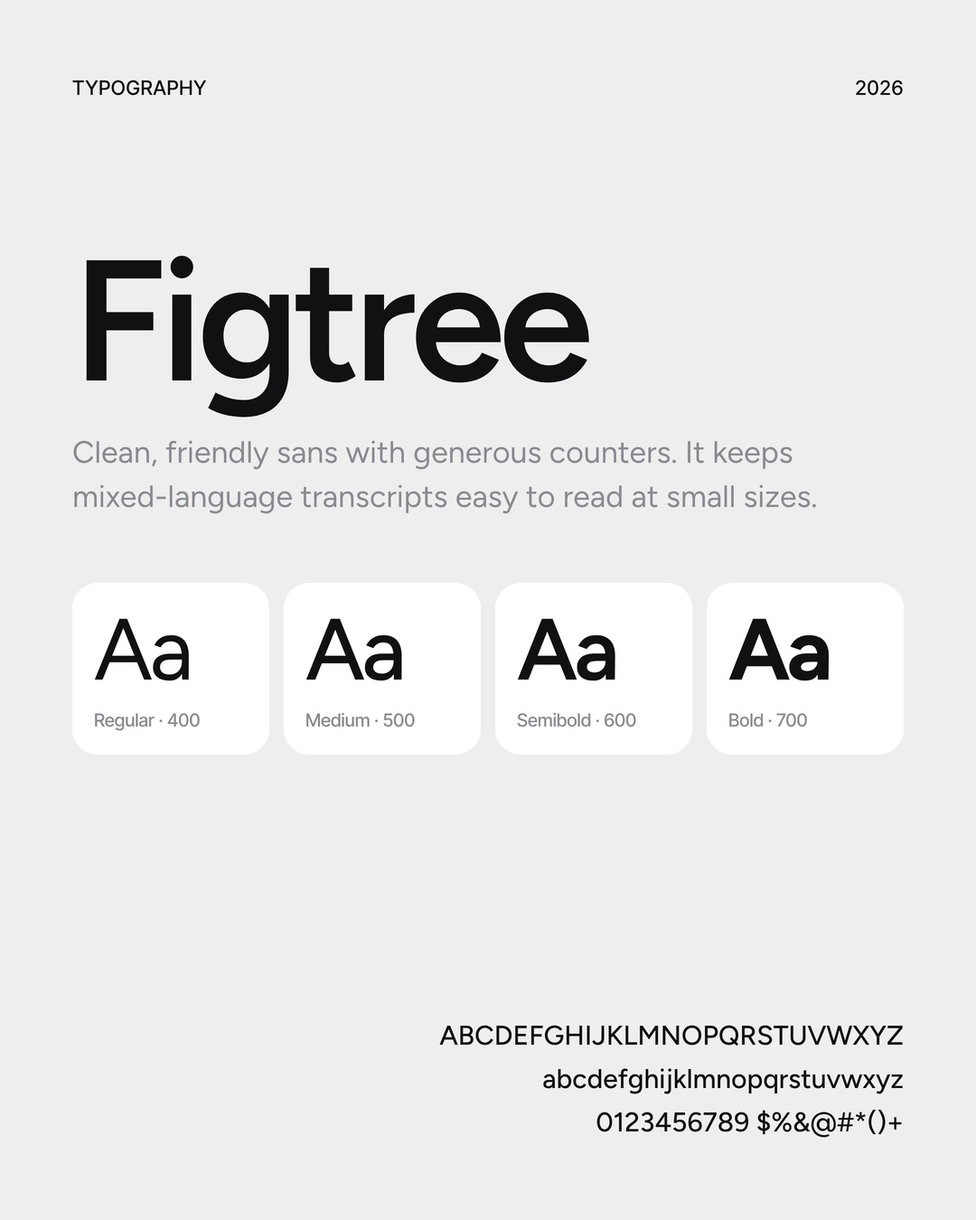
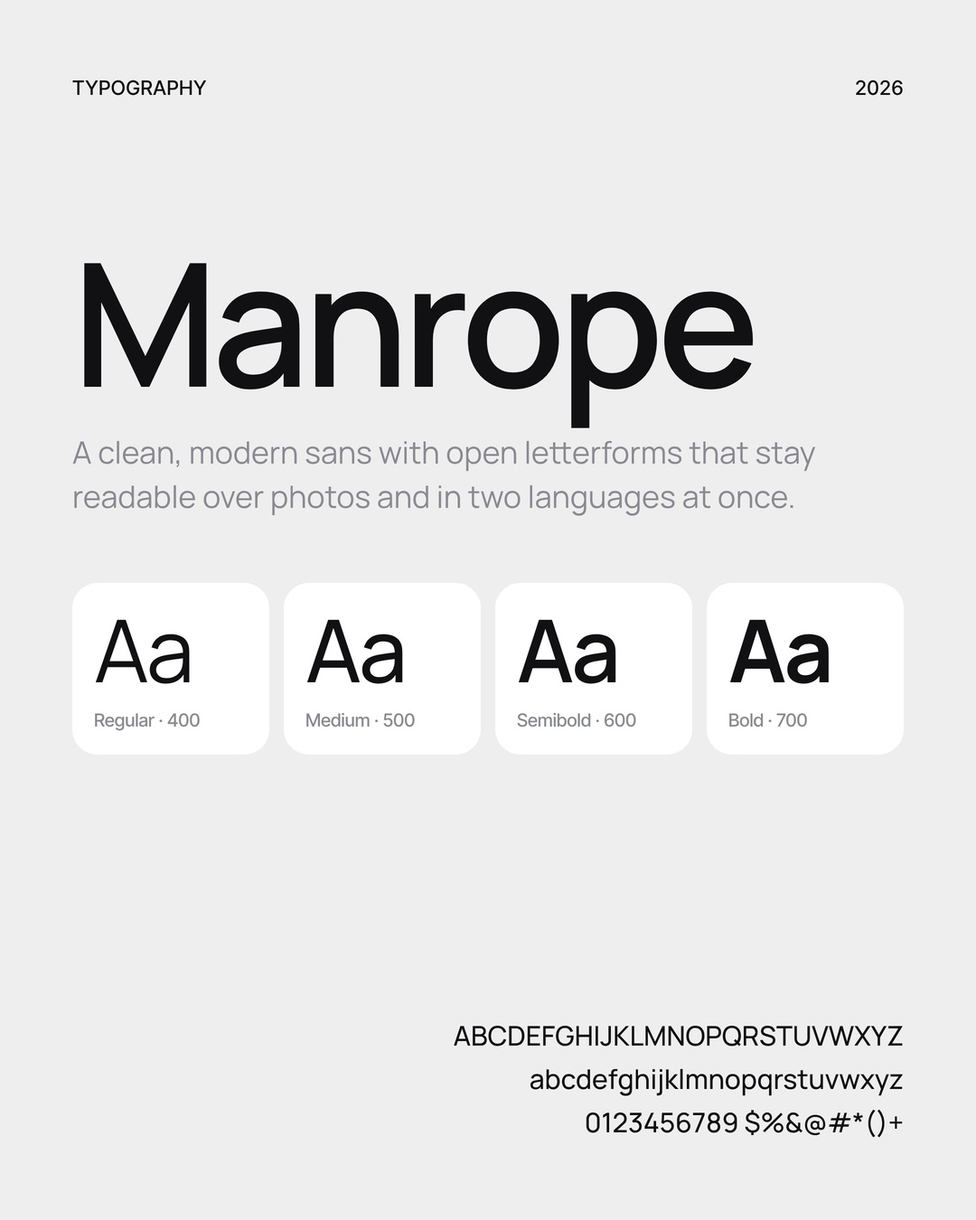
Redesign Lumen, Stride and Pantry AI app posts in glass + real-photo style (pending owner approval)
Claude-Session: https://claude.ai/code/session_01Rx7czwURhfBQTkGaHoh7L3

diff --git a/designs/2026-11-16-pm-stride-running-app/screen.html b/designs/2026-11-16-pm-stride-running-app/screen.html
@@ -1,90 +1,81 @@
 <!doctype html>
 <html><head><meta charset="utf-8">
 <meta name="app-name" content="Running Tracker">
-<meta name="app-desc" content="A running tracker built for the moment you finish. It shows **your route, pace and heart rate in one glance**, compares every split to last week, and **keeps the weekly goal one tap away**.">
+<meta name="app-desc" content="A running tracker built for the moment you finish. It shows **your run as a moment, not a spreadsheet**: distance over the real view, pace and heart rate on glass, and **every split compared to last week**.">
 <meta name="fonts" content="Space Grotesk|Technical grotesk with distinctive numerals. Pace, distance and time read like a sports scoreboard.">
 <meta name="palette" content="#D7FF3A:Volt|#111111:Asphalt|#F4F4EF:Chalk|#FFFFFF:White|#FF5C39:Heart|#6B6B66:Gravel">
 <link rel="stylesheet" href="../../assets/fonts.css">
 <style>
 *{box-sizing:border-box;margin:0;padding:0}
 html,body{width:393px;height:852px;overflow:hidden;background:#F4F4EF;font-family:'Space Grotesk';color:#111;-webkit-font-smoothing:antialiased;font-feature-settings:"tnum" 1}
-.screen{position:relative;width:393px;height:852px;padding:0 18px;background:#F4F4EF}
-.status{height:54px;display:flex;align-items:center;justify-content:space-between;padding:6px 14px 0 16px;font-weight:600;font-size:16px}
+.screen{position:relative;width:393px;height:852px;background:#F4F4EF;overflow:hidden}
+.hero{position:absolute;left:0;top:0;width:393px;height:500px;border-radius:0 0 36px 36px;overflow:hidden;background:url(photo.jpg) no-repeat;background-size:440px auto;background-position:-24px -40px}
+.hero:after{content:"";position:absolute;inset:0;background:linear-gradient(180deg,rgba(17,17,17,.45) 0%,rgba(17,17,17,.15) 40%,rgba(17,17,17,0) 50%,rgba(17,17,17,.7) 100%)}
+.z{position:relative;z-index:2}
+.g{background:rgba(255,255,255,.16);backdrop-filter:blur(20px) saturate(170%);-webkit-backdrop-filter:blur(20px) saturate(170%);border:1px solid rgba(255,255,255,.3)}
+.status{height:54px;display:flex;align-items:center;justify-content:space-between;padding:6px 26px 0 32px;font-weight:600;font-size:16px;color:#fff}
 .status .r{display:flex;gap:6px;align-items:center}
-.top{display:flex;align-items:center;justify-content:space-between;margin-top:4px}
-.top small{font-size:13px;color:#6B6B66;font-weight:500}
-.top h1{font-size:26px;font-weight:700;letter-spacing:-1px;margin-top:1px}
-.ib{width:42px;height:42px;border-radius:50%;background:#fff;display:grid;place-items:center}
-.map{margin-top:14px;height:226px;border-radius:28px;background:#E9EAE2;position:relative;overflow:hidden}
-.map svg.bg{position:absolute;inset:0}
-.pill{position:absolute;left:12px;top:12px;background:#111;color:#D7FF3A;font-size:12px;font-weight:600;padding:6px 10px;border-radius:999px;display:flex;align-items:center;gap:5px}
-.km{position:absolute;left:14px;bottom:12px;background:#fff;border-radius:20px;padding:10px 14px}
-.km b{font-size:38px;font-weight:700;letter-spacing:-2px;line-height:1}.km b span{font-size:16px;letter-spacing:0;color:#6B6B66;margin-left:3px}
-.stats{display:grid;grid-template-columns:1fr 1fr 1fr;gap:8px;margin-top:10px}
-.st{background:#fff;border-radius:20px;padding:12px}
-.st small{display:flex;align-items:center;gap:5px;font-size:11.5px;color:#6B6B66;font-weight:500}
-.st b{display:block;font-size:21px;font-weight:700;letter-spacing:-.8px;margin-top:6px}
-.st b span{font-size:12px;color:#6B6B66;letter-spacing:0;font-weight:500}
-.st.dk{background:#111;color:#fff}.st.dk small{color:#9A9A94}
-.sec{margin-top:10px;background:#fff;border-radius:24px;padding:14px 16px}
-.sh{display:flex;justify-content:space-between;align-items:baseline}
-.sh h3{font-size:15px;font-weight:700;letter-spacing:-.3px}.sh span{font-size:12.5px;color:#6B6B66}
-.splits{display:flex;align-items:flex-end;gap:7px;height:76px;margin-top:12px}
-.splits div{flex:1;display:flex;flex-direction:column;align-items:center;gap:5px;font-size:10.5px;color:#6B6B66;font-weight:500}
-.splits i{width:100%;border-radius:8px;background:#E7E8E0}
-.splits .best i{background:#D7FF3A;box-shadow:inset 0 0 0 1.5px #111}
-.goal{display:flex;align-items:center;gap:12px;margin-top:10px;background:#111;color:#fff;border-radius:24px;padding:14px 16px}
-.goal b{font-size:15px;font-weight:700}.goal small{display:block;font-size:12px;color:#9A9A94;margin-top:2px}
-.gbar{flex:1;height:8px;border-radius:4px;background:#2A2A2A;overflow:hidden;margin-top:8px}
-.tab{position:absolute;left:50%;transform:translateX(-50%);bottom:28px;display:flex;gap:6px;padding:7px;border-radius:999px;background:#111;box-shadow:0 18px 30px -12px rgba(0,0,0,.45)}
+.top{display:flex;justify-content:space-between;align-items:center;padding:8px 18px 0;color:#fff}
+.pill{display:flex;align-items:center;gap:8px;height:42px;padding:0 15px 0 6px;border-radius:999px;font-size:13.5px;font-weight:600}
+.pill i{width:30px;height:30px;border-radius:50%;background:#D7FF3A;display:grid;place-items:center}
+.ib{width:42px;height:42px;border-radius:50%;display:grid;place-items:center}
+.big{position:absolute;left:22px;right:22px;top:118px;z-index:2;color:#fff}
+.big small{font-size:13px;font-weight:600;opacity:.85;letter-spacing:.3px}
+.big h1{font-size:76px;font-weight:700;letter-spacing:-4px;line-height:.95;margin-top:4px}
+.big h1 span{font-size:28px;letter-spacing:-.5px;color:#D7FF3A;margin-left:6px}
+.big .pr{display:inline-flex;margin-top:12px;align-items:center;gap:6px;font-size:13px;font-weight:700;color:#111;background:#D7FF3A;padding:7px 11px;border-radius:999px}
+.stats{position:absolute;left:14px;right:14px;top:452px;z-index:3;display:flex;border-radius:26px;padding:16px 6px;background:rgba(255,255,255,.78);backdrop-filter:blur(24px) saturate(170%);-webkit-backdrop-filter:blur(24px) saturate(170%);border:1px solid #fff;box-shadow:0 18px 40px rgba(17,17,17,.12)}
+.st{flex:1;text-align:center;border-right:1px solid rgba(17,17,17,.08)}.st:last-child{border:0}
+.st small{display:flex;align-items:center;justify-content:center;gap:5px;font-size:12px;color:#6B6B66;font-weight:500}
+.st b{display:block;font-size:22px;font-weight:700;letter-spacing:-.6px;margin-top:4px}
+.st b em{font-style:normal;font-size:12px;color:#6B6B66;font-weight:500;margin-left:2px;letter-spacing:0}
+.card{position:absolute;left:14px;right:14px;top:560px;background:#fff;border-radius:26px;padding:16px 16px 12px}
+.card .h{display:flex;justify-content:space-between;align-items:baseline}
+.card h3{font-size:16px;font-weight:700;letter-spacing:-.3px}
+.card .lg{display:flex;gap:12px;font-size:11.5px;color:#6B6B66;font-weight:500}
+.card .lg span{display:flex;align-items:center;gap:5px}.card .lg i{width:8px;height:8px;border-radius:2px}
+.tab{position:absolute;left:50%;transform:translateX(-50%);bottom:26px;height:66px;width:300px;border-radius:999px;background:#111;display:flex;align-items:center;justify-content:space-between;padding:0 8px;box-shadow:0 16px 36px rgba(17,17,17,.25)}
 .tab div{width:50px;height:50px;border-radius:50%;display:grid;place-items:center}
-.tab .go{width:auto;white-space:nowrap;padding:0 20px;border-radius:999px;background:#D7FF3A;display:flex;gap:7px;font-size:15px;font-weight:700;color:#111}
-.fade{position:absolute;left:0;right:0;bottom:0;height:120px;background:linear-gradient(to bottom,rgba(244,244,239,0),#F4F4EF 60%)}
+.tab .on{width:auto;padding:0 18px;border-radius:999px;background:#D7FF3A;display:flex;gap:7px;font-size:14px;font-weight:700;color:#111}
 .home{position:absolute;bottom:8px;left:50%;transform:translateX(-50%);width:134px;height:5px;border-radius:3px;background:#111}
-</style></head>
-<body><div class="screen">
-<div class="status"><span>9:41</span><span class="r">
-<svg width="18" height="12" viewBox="0 0 18 12"><rect x="0" y="8" width="3" height="4" rx="1" fill="#111"/><rect x="5" y="5.5" width="3" height="6.5" rx="1" fill="#111"/><rect x="10" y="3" width="3" height="9" rx="1" fill="#111"/><rect x="15" y="0" width="3" height="12" rx="1" fill="#111"/></svg>
-<svg width="16" height="12" viewBox="0 0 16 12"><path d="M8 3.2c2.4 0 4.6.9 6.2 2.5l1.2-1.2C13.4 2.5 10.8 1.4 8 1.4S2.6 2.5.6 4.5l1.2 1.2C3.4 4.1 5.6 3.2 8 3.2zm0 3.6c1.4 0 2.7.5 3.7 1.4l1.2-1.2C11.6 5.7 9.9 5 8 5s-3.6.7-4.9 2l1.2 1.2c1-.9 2.3-1.4 3.7-1.4zM8 10.3l2-2c-.5-.5-1.2-.8-2-.8s-1.5.3-2 .8l2 2z" fill="#111"/></svg>
-<svg width="27" height="13" viewBox="0 0 27 13"><rect x=".5" y=".5" width="22" height="12" rx="3.8" fill="none" stroke="#111" opacity=".35"/><rect x="2" y="2" width="19" height="9" rx="2.5" fill="#111"/></svg></span></div>
-
-<div class="top"><div><small>Sun, 16 Nov · 6:42 AM</small><h1>Riverside loop</h1></div><div class="ib">{{icon:share:19:#111}}</div></div>
-
-<div class="map">
- <svg class="bg" width="357" height="226" viewBox="0 0 357 226">
-  <path d="M-10 160 C60 140 90 190 160 170 S280 120 370 150" stroke="#C9DCE6" stroke-width="26" fill="none"/>
-  <g stroke="#fff" stroke-width="7" fill="none" stroke-linecap="round"><path d="M0 70 L357 40"/><path d="M60 0 L90 226"/><path d="M200 0 L230 226"/><path d="M290 0 L300 226"/><path d="M0 120 L357 100"/></g>
-  <rect x="110" y="60" width="70" height="36" rx="6" fill="#DDE6D2"/><rect x="240" y="64" width="44" height="30" rx="6" fill="#DDE6D2"/>
-  <path d="M70 196 C70 150 96 128 120 118 S190 108 214 82 S268 52 300 70 S320 140 270 150 S170 156 130 176 S80 210 70 196 Z" fill="none" stroke="#111" stroke-width="5" stroke-linejoin="round"/>
-  <path d="M70 196 C70 150 96 128 120 118 S190 108 214 82" fill="none" stroke="#D7FF3A" stroke-width="3" stroke-linecap="round"/>
-  <circle cx="70" cy="196" r="8" fill="#D7FF3A" stroke="#111" stroke-width="3"/>
-  <circle cx="300" cy="70" r="6" fill="#FF5C39" stroke="#fff" stroke-width="2.5"/>
- </svg>
- <div class="pill">{{icon:trophy:13:#D7FF3A:2.4}}New 5K best</div>
- <div class="km"><b>8.42<span>km</span></b></div>
+</style></head><body><div class="screen">
+<div class="hero"></div>
+<div class="z">
+<div class="status"><span>9:41</span><span class="r">{{icon:signal:17:#fff:2.4}}{{icon:wifi:17:#fff:2.4}}{{icon:battery-full:24:#fff:1.8}}</span></div>
+<div class="top"><div class="pill g"><i>{{icon:sunrise:16:#111:2.2}}</i>Morning run · Sat 14 Nov</div><div class="ib g">{{icon:share:18:#fff:2.2}}</div></div>
 </div>
-
+<div class="big"><small>Coastal loop · 6:42 AM</small><h1>8.42<span>km</span></h1>
+<div class="pr">{{icon:trophy:14:#111:2.4}}Best 8K pace</div></div>
 <div class="stats">
- <div class="st dk"><small>{{icon:timer:13:#9A9A94:2.2}}Time</small><b>42:18</b></div>
- <div class="st"><small>{{icon:gauge:13:#6B6B66:2.2}}Avg pace</small><b>5'01<span>/km</span></b></div>
- <div class="st"><small>{{icon:heart:13:#FF5C39:2.4}}Avg HR</small><b>152<span>bpm</span></b></div>
+ <div class="st"><small>{{icon:gauge:13:#6B6B66:2.2}}Avg pace</small><b>5'08"<em>/km</em></b></div>
+ <div class="st"><small>{{icon:timer:13:#6B6B66:2.2}}Time</small><b>43:13</b></div>
+ <div class="st"><small>{{icon:heart:13:#FF5C39:2.4}}Heart</small><b>152<em>bpm</em></b></div>
 </div>
-
-<div class="sec"><div class="sh"><h3>Splits</h3><span>vs last Sunday −0:41</span></div>
- <div class="splits">
-  <div><i style="height:38px"></i>1</div><div><i style="height:44px"></i>2</div><div class="best"><i style="height:58px"></i>3</div><div><i style="height:50px"></i>4</div>
-  <div><i style="height:47px"></i>5</div><div><i style="height:41px"></i>6</div><div><i style="height:45px"></i>7</div><div><i style="height:52px"></i>8</div>
- </div></div>
-
-<div class="goal">{{icon:target:22:#D7FF3A:2.2}}<div style="flex:1"><b>Weekly goal · 24.6 of 30 km</b><small>One easy 6 km run gets you there</small><div class="gbar"><div style="width:82%;height:100%;background:#D7FF3A;border-radius:4px"></div></div></div></div>
-
-<div class="fade"></div>
+<div class="card">
+ <div class="h"><h3>Splits vs last week</h3><div class="lg"><span><i style="background:#111"></i>Today</span><span><i style="background:#D9D9D2"></i>Last wk</span></div></div>
+ <svg width="333" height="124" viewBox="0 0 333 124" style="display:block;margin-top:8px;font-family:'Space Grotesk'">
+  <g stroke="#EFEFEA" stroke-width="1"><line x1="28" y1="14" x2="333" y2="14"/><line x1="28" y1="50" x2="333" y2="50"/><line x1="28" y1="86" x2="333" y2="86"/></g>
+  <g font-size="10" fill="#9A9A94"><text x="0" y="17">4'50</text><text x="0" y="53">5'10</text><text x="0" y="89">5'30</text></g>
+  <!-- bars: height = faster pace -> taller. base y=100 -->
+  <g>
+   <rect x="38" y="58" width="12" height="42" rx="4" fill="#D9D9D2"/><rect x="52" y="52" width="12" height="48" rx="4" fill="#111"/>
+   <rect x="74" y="54" width="12" height="46" rx="4" fill="#D9D9D2"/><rect x="88" y="46" width="12" height="54" rx="4" fill="#111"/>
+   <rect x="110" y="56" width="12" height="44" rx="4" fill="#D9D9D2"/><rect x="124" y="48" width="12" height="52" rx="4" fill="#111"/>
+   <rect x="146" y="60" width="12" height="40" rx="4" fill="#D9D9D2"/><rect x="160" y="50" width="12" height="50" rx="4" fill="#111"/>
+   <rect x="182" y="57" width="12" height="43" rx="4" fill="#D9D9D2"/><rect x="196" y="44" width="12" height="56" rx="4" fill="#111"/>
+   <rect x="218" y="55" width="12" height="45" rx="4" fill="#D9D9D2"/><rect x="232" y="47" width="12" height="53" rx="4" fill="#111"/>
+   <rect x="254" y="52" width="12" height="48" rx="4" fill="#D9D9D2"/><rect x="268" y="16" width="12" height="84" rx="4" fill="#D7FF3A" stroke="#111" stroke-width="1.5"/>
+   <rect x="290" y="62" width="12" height="38" rx="4" fill="#D9D9D2"/><rect x="304" y="56" width="12" height="44" rx="4" fill="#111"/>
+  </g>
+  <g transform="translate(180 2)"><rect width="80" height="22" rx="11" fill="#111"/><text x="40" y="15" text-anchor="middle" font-size="11" font-weight="700" fill="#D7FF3A">KM 7 · 4'51"</text></g>
+  <g font-size="10" fill="#9A9A94" text-anchor="middle"><text x="57" y="118">1</text><text x="93" y="118">2</text><text x="129" y="118">3</text><text x="165" y="118">4</text><text x="201" y="118">5</text><text x="237" y="118">6</text><text x="273" y="120" fill="#111" font-weight="700">7</text><text x="309" y="118">8</text></g>
+ </svg>
+</div>
 <div class="tab">
- <div>{{icon:house:21:#9A9A94}}</div>
- <div>{{icon:chart-line:21:#9A9A94}}</div>
- <div class="go">{{icon:play:17:#111111:2.6}}Start run</div>
- <div>{{icon:users:21:#9A9A94}}</div>
- <div>{{icon:user-round:21:#9A9A94}}</div>
+ <div class="on">{{icon:activity:20:#111:2.2}}Runs</div>
+ <div>{{icon:map:22:#fff:2}}</div>
+ <div>{{icon:trophy:22:#fff:2}}</div>
+ <div>{{icon:user-round:22:#fff:2}}</div>
 </div>
 <div class="home"></div>
 </div></body></html>

diff --git a/designs/2026-11-15-am-lumen-ai-tutor-app/screen.html b/designs/2026-11-15-am-lumen-ai-tutor-app/screen.html
@@ -1,85 +1,76 @@
 <!doctype html>
 <html><head><meta charset="utf-8">
 <meta name="app-name" content="AI Language Tutor">
-<meta name="app-desc" content="An AI language tutor you practice with out loud. Speak naturally, get **gentle corrections in real time**, and see your pronunciation improve with **a score after every sentence** you say.">
-<meta name="fonts" content="Figtree|Clean, friendly sans with generous counters. It keeps mixed-language transcripts easy to read at small sizes.">
-<meta name="palette" content="#2E8BFF:Sky|#0E1B2E:Midnight|#F3F8FF:Cloud|#FFFFFF:White|#FFD23F:Sunshine|#22C38E:Correct">
+<meta name="app-desc" content="An AI language tutor that drops you into **real-life scenes you can actually see**, like ordering breakfast in Seville, and gently corrects you **while you speak, not after**.">
+<meta name="fonts" content="Manrope|A clean, modern sans with open letterforms that stay readable over photos and in two languages at once.">
+<meta name="palette" content="#2C7BE5:Sky|#FFD23F:Sunshine|#0E1B2E:Ink|#EAF3FF:Mist|#FFFFFF:White|#22B573:Correct">
 <link rel="stylesheet" href="../../assets/fonts.css">
 <style>
 *{box-sizing:border-box;margin:0;padding:0}
-html,body{width:393px;height:852px;overflow:hidden;background:#F3F8FF;font-family:'Figtree';color:#0E1B2E;-webkit-font-smoothing:antialiased;font-feature-settings:"tnum" 1}
-.screen{position:relative;width:393px;height:852px;padding:0 18px;background:linear-gradient(180deg,#DDEBFF 0%,#F3F8FF 42%)}
-.status{height:54px;display:flex;align-items:center;justify-content:space-between;padding:6px 14px 0 16px;font-weight:700;font-size:16px}
+html,body{width:393px;height:852px;overflow:hidden;background:#0E1B2E;font-family:'Manrope';color:#fff;-webkit-font-smoothing:antialiased;font-feature-settings:"tnum" 1}
+.screen{position:relative;width:393px;height:852px;overflow:hidden;background:url(photo.jpg) no-repeat;background-size:auto 900px;background-position:-120px -10px}
+.screen:before{content:"";position:absolute;inset:0;background:linear-gradient(180deg,rgba(14,27,46,.35) 0%,rgba(14,27,46,0) 22%,rgba(14,27,46,.28) 40%,rgba(14,27,46,.55) 70%,rgba(14,27,46,.75) 100%)}
+.screen>*{position:relative;z-index:1}
+.g{background:rgba(255,255,255,.16);backdrop-filter:blur(22px) saturate(170%);-webkit-backdrop-filter:blur(22px) saturate(170%);border:1px solid rgba(255,255,255,.3)}
+.status{height:54px;display:flex;align-items:center;justify-content:space-between;padding:6px 26px 0 32px;font-weight:700;font-size:16px}
 .status .r{display:flex;gap:6px;align-items:center}
-.top{display:flex;align-items:center;justify-content:space-between;margin-top:4px}
-.ib{width:40px;height:40px;border-radius:14px;background:rgba(255,255,255,.8);display:grid;place-items:center}
-.lang{display:flex;align-items:center;gap:8px;background:#fff;border-radius:999px;padding:6px 14px 6px 6px;font-size:14px;font-weight:700}
-.lang i{width:28px;height:28px;border-radius:50%;background:#FFD23F;display:grid;place-items:center;font-style:normal;font-size:15px}
-.lang small{color:#6B7A92;font-weight:600}
-.tutor{display:flex;flex-direction:column;align-items:center;margin-top:22px}
-.orb{width:108px;height:108px;border-radius:50%;background:radial-gradient(circle at 35% 30%,#fff 0%,#9CCBFF 30%,#2E8BFF 70%,#1A5FD0 100%);box-shadow:0 0 0 14px rgba(46,139,255,.12),0 0 0 30px rgba(46,139,255,.06),0 24px 40px -10px rgba(46,139,255,.6);position:relative}
-.orb:after{content:"";position:absolute;right:12px;top:16px;width:26px;height:26px;border-radius:50%;background:#FFD23F;filter:blur(6px);opacity:.9}
-.tutor b{font-size:18px;font-weight:800;margin-top:18px;letter-spacing:-.3px}
-.tutor small{font-size:13px;color:#6B7A92;font-weight:600;margin-top:3px}
-.bub{margin-top:14px;background:#fff;border-radius:6px 22px 22px 22px;padding:14px 15px;box-shadow:0 1px 0 #E3ECF8}
-.bub .es{font-size:15.5px;font-weight:700;line-height:1.4;letter-spacing:-.1px}
-.bub .en{font-size:12.5px;color:#6B7A92;margin-top:5px;line-height:1.4}
-.who{display:flex;align-items:center;gap:6px;font-size:11.5px;font-weight:700;color:#6B7A92;margin-bottom:7px;text-transform:uppercase;letter-spacing:.5px}
-.me{margin-top:10px;background:#0E1B2E;color:#fff;border-radius:22px 6px 22px 22px;padding:14px 15px}
-.me .es{font-size:15.5px;font-weight:600;line-height:1.45}
-.me s{color:#FF8A8A;text-decoration-thickness:2px}
-.me .fix{background:rgba(34,195,142,.22);color:#5BF0BC;border-radius:6px;padding:0 4px}
-.me .who{color:#8EA0BC}
-.score{display:flex;gap:8px;margin-top:12px}
-.sc{flex:1;background:#fff;border-radius:18px;padding:11px 12px}
-.sc small{font-size:11.5px;color:#6B7A92;font-weight:600}
-.sc b{display:block;font-size:22px;font-weight:800;letter-spacing:-.6px;margin-top:2px}
-.sc .m{height:5px;border-radius:3px;background:#E8EFF9;margin-top:6px;overflow:hidden}
-.mic{position:absolute;left:0;right:0;bottom:106px;display:flex;align-items:center;justify-content:center;gap:22px}
-.mic .sm{width:52px;height:52px;border-radius:50%;background:#fff;display:grid;place-items:center;box-shadow:0 8px 20px -12px rgba(14,27,46,.4)}
-.mic .big{width:78px;height:78px;border-radius:50%;background:#2E8BFF;display:grid;place-items:center;box-shadow:0 0 0 8px rgba(46,139,255,.18),0 16px 26px -10px rgba(46,139,255,.8)}
-.wave{position:absolute;left:0;right:0;bottom:192px;display:flex;justify-content:center;gap:3px;align-items:center;height:28px}
-.wave span{width:3px;border-radius:2px;background:#2E8BFF}
-.tab{position:absolute;left:18px;right:18px;bottom:26px;height:62px;display:flex;justify-content:space-around;align-items:center;border-radius:22px;background:#fff;box-shadow:0 10px 30px -16px rgba(14,27,46,.35)}
-.tab div{width:48px;height:46px;border-radius:15px;display:grid;place-items:center}
-.tab .on{background:#E3EFFF}
-.home{position:absolute;bottom:8px;left:50%;transform:translateX(-50%);width:134px;height:5px;border-radius:3px;background:#0E1B2E}
-.lang i.es{font:700 10px/1 'Inter Tight';font-style:normal;color:#fff;background:#C8102E;display:grid;place-items:center;letter-spacing:.3px}
-</style></head>
-<body><div class="screen">
-<div class="status"><span>9:41</span><span class="r">
-<svg width="18" height="12" viewBox="0 0 18 12"><rect x="0" y="8" width="3" height="4" rx="1" fill="#0E1B2E"/><rect x="5" y="5.5" width="3" height="6.5" rx="1" fill="#0E1B2E"/><rect x="10" y="3" width="3" height="9" rx="1" fill="#0E1B2E"/><rect x="15" y="0" width="3" height="12" rx="1" fill="#0E1B2E"/></svg>
-<svg width="16" height="12" viewBox="0 0 16 12"><path d="M8 3.2c2.4 0 4.6.9 6.2 2.5l1.2-1.2C13.4 2.5 10.8 1.4 8 1.4S2.6 2.5.6 4.5l1.2 1.2C3.4 4.1 5.6 3.2 8 3.2zm0 3.6c1.4 0 2.7.5 3.7 1.4l1.2-1.2C11.6 5.7 9.9 5 8 5s-3.6.7-4.9 2l1.2 1.2c1-.9 2.3-1.4 3.7-1.4zM8 10.3l2-2c-.5-.5-1.2-.8-2-.8s-1.5.3-2 .8l2 2z" fill="#0E1B2E"/></svg>
-<svg width="27" height="13" viewBox="0 0 27 13"><rect x=".5" y=".5" width="22" height="12" rx="3.8" fill="none" stroke="#0E1B2E" opacity=".35"/><rect x="2" y="2" width="19" height="9" rx="2.5" fill="#0E1B2E"/></svg></span></div>
-
-<div class="top"><div class="ib">{{icon:x:20:#0E1B2E:2.2}}</div>
- <div class="lang"><i class="es">ES</i>Spanish <small>· B1</small></div>
- <div class="ib">{{icon:languages:19:#0E1B2E}}</div></div>
-
-<div class="tutor"><div class="orb"></div><b>Talking with Sofía</b><small>Ordering at a market · 4:12</small></div>
-
-<div class="bub"><div class="who">{{icon:sparkles:12:#2E8BFF:2.4}}Sofía</div>
- <div class="es">¡Qué bien! ¿Y qué compraste en el mercado ayer?</div>
- <div class="en">Nice! And what did you buy at the market yesterday?</div></div>
-
-<div class="me"><div class="who">{{icon:mic:12:#8EA0BC:2.4}}You</div>
- <div class="es">Ayer <s>compro</s> <span class="fix">compré</span> unas manzanas y <s>un</s> <span class="fix">una</span> sandía muy grande.</div></div>
-
-<div class="score">
- <div class="sc"><small>Pronunciation</small><b style="color:#16A374">92</b><div class="m"><div style="width:92%;height:100%;background:#22C38E"></div></div></div>
- <div class="sc"><small>Grammar</small><b>2 fixes</b><div class="m"><div style="width:80%;height:100%;background:#FFD23F"></div></div></div>
- <div class="sc"><small>Streak</small><b>34 days</b><div class="m"><div style="width:100%;height:100%;background:#2E8BFF"></div></div></div>
+.top{display:flex;align-items:center;justify-content:space-between;padding:8px 18px 0}
+.ib{width:44px;height:44px;border-radius:50%;display:grid;place-items:center}
+.lang{display:flex;align-items:center;gap:8px;height:44px;padding:0 16px 0 6px;border-radius:999px;font-size:14px;font-weight:700}
+.lang i{width:32px;height:32px;border-radius:50%;background:#FFD23F;color:#0E1B2E;display:grid;place-items:center;font:800 11px 'Manrope';font-style:normal}
+.lang span{opacity:.75;font-weight:600}
+.scene{position:absolute;left:20px;right:20px;top:262px}
+.scene small{background:rgba(14,27,46,.35);display:inline-flex;align-items:center;gap:7px;font-size:12px;font-weight:700;padding:6px 12px;border-radius:999px}
+.scene small i{width:7px;height:7px;border-radius:50%;background:#FF5A5F;box-shadow:0 0 0 3px rgba(255,90,95,.3)}
+.scene h1{font-size:30px;line-height:1.08;font-weight:800;letter-spacing:-1px;margin-top:12px;text-shadow:0 2px 20px rgba(14,27,46,.25)}
+.scene h1 span{color:#FFD23F}
+.chat{position:absolute;left:16px;right:16px;top:400px;display:flex;flex-direction:column;gap:10px}
+.b{border-radius:22px;padding:13px 15px}
+.b .who{display:flex;align-items:center;gap:8px;font-size:12px;font-weight:700;opacity:.9}
+.b .who img{width:26px;height:26px;border-radius:50%;object-fit:cover;border:1.5px solid rgba(255,255,255,.8)}
+.b p{font-size:16px;font-weight:700;line-height:1.3;margin-top:8px;letter-spacing:-.2px}
+.b em{display:block;font-style:normal;font-size:12.5px;opacity:.75;font-weight:500;margin-top:4px}
+.t{border-top-left-radius:8px;margin-right:34px}
+.me{margin-left:34px;border-top-right-radius:8px;background:rgba(255,255,255,.92);color:#0E1B2E;border:1px solid #fff}
+.me .who{color:#5B6B82;opacity:1;justify-content:flex-end}
+.me p{text-align:right}
+.me u{text-decoration:none;background:rgba(34,181,115,.16);color:#14935C;border-radius:6px;padding:0 4px}
+.tip{display:flex;align-items:center;gap:6px;justify-content:flex-end;margin-top:8px;font-size:12px;font-weight:700;color:#14935C}
+.wave{display:flex;align-items:center;justify-content:center;gap:3px;height:26px;margin-top:2px}
+.wave i{width:3px;border-radius:2px;background:rgba(255,255,255,.85)}
+.ctl{position:absolute;left:0;right:0;bottom:104px;display:flex;align-items:center;justify-content:center;gap:28px}
+.cb{width:50px;height:50px;border-radius:50%;display:grid;place-items:center}
+.mic{width:78px;height:78px;border-radius:50%;background:radial-gradient(circle at 35% 30%,#5FA2FF,#2C7BE5 65%);display:grid;place-items:center;box-shadow:0 0 0 8px rgba(44,123,229,.25),0 0 0 16px rgba(255,255,255,.08),0 18px 40px rgba(44,123,229,.45)}
+.tab{position:absolute;left:50%;transform:translateX(-50%);bottom:26px;height:64px;width:290px;border-radius:999px;background:rgba(14,27,46,.55);backdrop-filter:blur(22px) saturate(170%);-webkit-backdrop-filter:blur(22px) saturate(170%);border:1px solid rgba(255,255,255,.18);display:flex;align-items:center;justify-content:space-between;padding:0 8px}
+.tab div{width:48px;height:48px;border-radius:50%;display:grid;place-items:center}
+.tab .on{width:auto;padding:0 18px;border-radius:999px;background:#FFD23F;display:flex;gap:7px;font-size:14px;font-weight:800;color:#0E1B2E}
+.home{position:absolute;bottom:8px;left:50%;transform:translateX(-50%);width:134px;height:5px;border-radius:3px;background:#fff}
+</style></head><body><div class="screen">
+<div class="status"><span>9:41</span><span class="r">{{icon:signal:17:#fff:2.4}}{{icon:wifi:17:#fff:2.4}}{{icon:battery-full:24:#fff:1.8}}</span></div>
+<div class="top">
+ <div class="ib g">{{icon:x:20:#fff:2.2}}</div>
+ <div class="lang g"><i>ES</i>Spanish <span>· B1</span></div>
+ <div class="ib g">{{icon:languages:20:#fff:2}}</div>
 </div>
-
-<div class="wave" id="w"></div>
-<div class="mic"><div class="sm">{{icon:lightbulb:21:#0E1B2E}}</div><div class="big">{{icon:mic:30:#ffffff:2.4}}</div><div class="sm">{{icon:rotate-ccw:21:#0E1B2E}}</div></div>
+<div class="scene"><small class="g"><i></i>Live scene · 4:12</small>
+<h1>Ordering breakfast<br>in <span>Seville</span></h1></div>
+<div class="chat">
+ <div class="b t g"><div class="who"><img src="tutor.jpg">Sofía · AI tutor</div>
+  <p>¡Buenos días! ¿Qué te pongo?</p><em>Good morning! What can I get you?</em></div>
+ <div class="b me"><div class="who">You · just now</div>
+  <p><u>Quisiera</u> un café con leche y una tostada, por favor.</p>
+  <div class="tip">{{icon:circle-check:14:#14935C:2.4}}More polite than “quiero”. Nice!</div></div>
+</div>
+<div class="ctl">
+ <div class="cb g">{{icon:lightbulb:21:#fff:2}}</div>
+ <div class="mic">{{icon:mic:30:#fff:2.2}}</div>
+ <div class="cb g">{{icon:rotate-ccw:21:#fff:2}}</div>
+</div>
 <div class="tab">
- <div class="on">{{icon:message-circle:21:#2E8BFF:2.4}}</div>
- <div>{{icon:book-open:21:#8EA0BC}}</div>
- <div>{{icon:trophy:21:#8EA0BC}}</div>
- <div>{{icon:user-round:21:#8EA0BC}}</div>
+ <div class="on">{{icon:message-circle:20:#0E1B2E:2.2}}Speak</div>
+ <div>{{icon:book-open:22:#fff:2}}</div>
+ <div>{{icon:trophy:22:#fff:2}}</div>
+ <div>{{icon:user-round:22:#fff:2}}</div>
 </div>
 <div class="home"></div>
-</div>
-<script>let h='';for(let i=0;i<34;i++){const v=5+Math.abs(Math.sin(i*.7)*Math.cos(i*.23))*22;h+=`<span style="height:${v}px;opacity:${.35+Math.abs(Math.sin(i*.4))*.65}"></span>`}document.getElementById('w').innerHTML=h;</script>
-</body></html>
+</div></body></html>

diff --git a/designs/2026-11-18-am-pantry-ai-meal-planner-app/screen.html b/designs/2026-11-18-am-pantry-ai-meal-planner-app/screen.html
@@ -1,0 +1,79 @@
+<!doctype html>
+<html><head><meta charset="utf-8">
+<meta name="app-name" content="AI Meal Planner">
+<meta name="app-desc" content="An AI meal planner that starts with **one photo of your fridge**. It spots every ingredient, flags what expires first, and suggests **dinner you can cook tonight** without another trip to the shop.">
+<meta name="fonts" content="DM Sans|A friendly low-contrast sans that keeps labels, quantities and cooking times calm and easy to read in the kitchen.">
+<meta name="palette" content="#E8492F:Tomato|#2B1D18:Cocoa|#FBF6EE:Cream|#FFFFFF:White|#F4D9B8:Crust|#4E8F55:Basil">
+<link rel="stylesheet" href="../../assets/fonts.css">
+<style>
+*{box-sizing:border-box;margin:0;padding:0}
+html,body{width:393px;height:852px;overflow:hidden;background:#FBF6EE;font-family:'DM Sans';color:#2B1D18;-webkit-font-smoothing:antialiased;font-feature-settings:"tnum" 1}
+.screen{position:relative;width:393px;height:852px;background:#FBF6EE;overflow:hidden}
+.status{height:54px;display:flex;align-items:center;justify-content:space-between;padding:6px 26px 0 32px;font-weight:600;font-size:16px}
+.status .r{display:flex;gap:6px;align-items:center}
+.top{display:flex;align-items:center;justify-content:space-between;padding:4px 20px 0}
+.top small{font-size:13px;color:#8C7B70;font-weight:500}.top h1{font-size:25px;font-weight:700;letter-spacing:-.8px;margin-top:1px}
+.top h1 span{color:#E8492F}
+.ib{width:44px;height:44px;border-radius:50%;background:#fff;display:grid;place-items:center;box-shadow:0 1px 0 #F0E6D8}
+.cam{position:relative;margin:14px 16px 0;height:318px;border-radius:30px;overflow:hidden;background:url(fridge.jpg) no-repeat;background-size:400px auto;background-position:-21px -150px}
+.cam:after{content:"";position:absolute;inset:0;background:linear-gradient(180deg,rgba(43,29,24,.08),rgba(43,29,24,0) 40%,rgba(43,29,24,.45))}
+.g{background:rgba(255,255,255,.22);backdrop-filter:blur(16px) saturate(170%);-webkit-backdrop-filter:blur(16px) saturate(170%);border:1px solid rgba(255,255,255,.5)}
+.br{position:absolute;width:26px;height:26px;border:3px solid #fff;z-index:2}
+.tag{position:absolute;z-index:2;display:flex;align-items:center;gap:6px;padding:5px 10px 5px 6px;border-radius:999px;font-size:12px;font-weight:700;color:#fff;background:rgba(43,29,24,.35)}
+.tag i{width:18px;height:18px;border-radius:50%;background:#fff;display:grid;place-items:center}
+.tag.w i{background:#E8492F}
+.box{position:absolute;z-index:2;border:2px solid rgba(255,255,255,.9);border-radius:12px;box-shadow:0 0 0 999px rgba(0,0,0,0)}
+.found{position:absolute;left:10px;right:10px;bottom:10px;z-index:2;height:56px;border-radius:20px;display:flex;align-items:center;gap:10px;padding:0 8px 0 14px;color:#fff;background:rgba(43,29,24,.32)}
+.found b{font-size:15px;font-weight:700;display:block}.found small{font-size:12px;opacity:.85}
+.found .btn{margin-left:auto;height:40px;padding:0 14px;border-radius:14px;background:#fff;color:#2B1D18;font-weight:700;font-size:13.5px;display:flex;align-items:center;gap:6px}
+.sh{display:flex;justify-content:space-between;align-items:baseline;padding:0 20px;margin-top:16px}
+.sh h3{font-size:17px;font-weight:700;letter-spacing:-.4px}.sh a{font-size:13px;color:#E8492F;font-weight:700}
+.rc{margin:10px 16px 0;background:#fff;border-radius:26px;padding:10px;display:flex;gap:12px;box-shadow:0 1px 0 #F0E6D8}
+.rc .ph{width:112px;height:118px;border-radius:20px;background:url(dish.jpg) center/150% no-repeat;flex:none;position:relative}
+.rc .ph span{position:absolute;left:8px;top:8px;font-size:11px;font-weight:700;padding:4px 8px;border-radius:999px;color:#2B1D18;background:rgba(255,255,255,.75);backdrop-filter:blur(8px);-webkit-backdrop-filter:blur(8px)}
+.rc .in{flex:1;padding:4px 4px 0 0;display:flex;flex-direction:column}
+.rc h4{font-size:16.5px;font-weight:700;letter-spacing:-.4px;line-height:1.15}
+.rc .m{display:flex;gap:10px;font-size:12px;color:#8C7B70;margin-top:6px;font-weight:500}
+.rc .m span{display:flex;align-items:center;gap:4px}
+.use{margin-top:auto;display:flex;align-items:center;justify-content:space-between}
+.use small{font-size:12px;font-weight:700;color:#4E8F55;display:flex;align-items:center;gap:4px}
+.go{width:40px;height:40px;border-radius:14px;background:#E8492F;display:grid;place-items:center}
+.bar{height:6px;border-radius:3px;background:#EEF3EC;margin:8px 0 10px;overflow:hidden}.bar i{display:block;height:100%;width:86%;background:#4E8F55;border-radius:3px}
+.uf{display:flex;gap:10px;margin:10px 16px 0}.uf div{flex:1;background:#fff;border-radius:20px;padding:10px;display:flex;align-items:center;gap:10px;box-shadow:0 1px 0 #F0E6D8}.uf i{width:36px;height:36px;border-radius:12px;display:grid;place-items:center;flex:none}.uf b{display:block;font-size:13.5px;font-weight:700;letter-spacing:-.2px}.uf small{font-size:11.5px;color:#8C7B70;font-weight:500}
+.tab{position:absolute;left:50%;transform:translateX(-50%);bottom:26px;height:66px;width:300px;border-radius:999px;background:#2B1D18;display:flex;align-items:center;justify-content:space-between;padding:0 8px;box-shadow:0 16px 36px rgba(43,29,24,.25)}
+.tab div{width:50px;height:50px;border-radius:50%;display:grid;place-items:center}
+.tab .on{width:auto;padding:0 18px;border-radius:999px;background:#E8492F;display:flex;gap:7px;font-size:14px;font-weight:700;color:#fff}
+.home{position:absolute;bottom:8px;left:50%;transform:translateX(-50%);width:134px;height:5px;border-radius:3px;background:#2B1D18}
+</style></head><body><div class="screen">
+<div class="status"><span>9:41</span><span class="r">{{icon:signal:17:#2B1D18:2.4}}{{icon:wifi:17:#2B1D18:2.4}}{{icon:battery-full:24:#2B1D18:1.8}}</span></div>
+<div class="top"><div><small>Wednesday · 6:20 pm</small><h1>What's for <span>dinner?</span></h1></div><div class="ib">{{icon:bell:20:#2B1D18:2}}</div></div>
+<div class="cam">
+ <div class="br" style="left:14px;top:14px;border-right:0;border-bottom:0;border-radius:10px 0 0 0"></div>
+ <div class="br" style="right:14px;top:14px;border-left:0;border-bottom:0;border-radius:0 10px 0 0"></div>
+ <div class="tag g w" style="left:24px;top:30px"><i>{{icon:clock:11:#fff:3}}</i>Cherry tomatoes · 1 day</div>
+ <div class="tag g" style="right:24px;top:60px"><i>{{icon:check:11:#2B1D18:3}}</i>Feta 200 g</div>
+ <div class="tag g" style="left:30px;top:130px"><i>{{icon:check:11:#2B1D18:3}}</i>Bell peppers × 3</div>
+ <div class="tag g" style="right:26px;top:176px"><i>{{icon:check:11:#2B1D18:3}}</i>Lemons × 4</div>
+ <div class="tag g" style="left:24px;top:200px"><i>{{icon:check:11:#2B1D18:3}}</i>Greek yogurt × 4</div>
+ <div class="found g"><div>{{icon:scan-line:22:#fff:2}}</div><div><b>14 ingredients found</b><small>2 expire in the next 2 days</small></div><div class="btn">{{icon:sparkles:15:#E8492F:2.2}}Plan meals</div></div>
+</div>
+<div class="sh"><h3>Cook tonight</h3><a>3 more ideas</a></div>
+<div class="rc">
+ <div class="ph"><span>Best match</span></div>
+ <div class="in">
+  <h4>Spinach &amp; feta shakshuka</h4>
+  <div class="m"><span>{{icon:timer:13:#8C7B70:2.2}}25 min</span><span>{{icon:flame:13:#8C7B70:2.2}}412 kcal</span><span>{{icon:users:13:#8C7B70:2.2}}2</span></div>
+  <div class="bar"><i></i></div>
+  <div class="use"><small>{{icon:circle-check:13:#4E8F55:2.4}}6 of 7 in your fridge</small><div class="go">{{icon:arrow-right:18:#fff:2.4}}</div></div>
+ </div>
+</div>
+<div class="sh" style="margin-top:16px"><h3>Use first</h3><a>See all</a></div>
+<div class="uf"><div><i style="background:#FDE5E0">{{icon:clock:16:#E8492F:2.2}}</i><span><b>Cherry tomatoes</b><small>Expires tomorrow</small></span></div><div><i style="background:#E7F0E6">{{icon:leaf:16:#4E8F55:2.2}}</i><span><b>Spinach</b><small>In 2 days</small></span></div></div>
+<div class="tab">
+ <div class="on">{{icon:scan-line:20:#fff:2.2}}Scan</div>
+ <div>{{icon:calendar-days:22:#F4D9B8:2}}</div>
+ <div>{{icon:shopping-basket:22:#F4D9B8:2}}</div>
+ <div>{{icon:user-round:22:#F4D9B8:2}}</div>
+</div>
+<div class="home"></div>
+</div></body></html>
